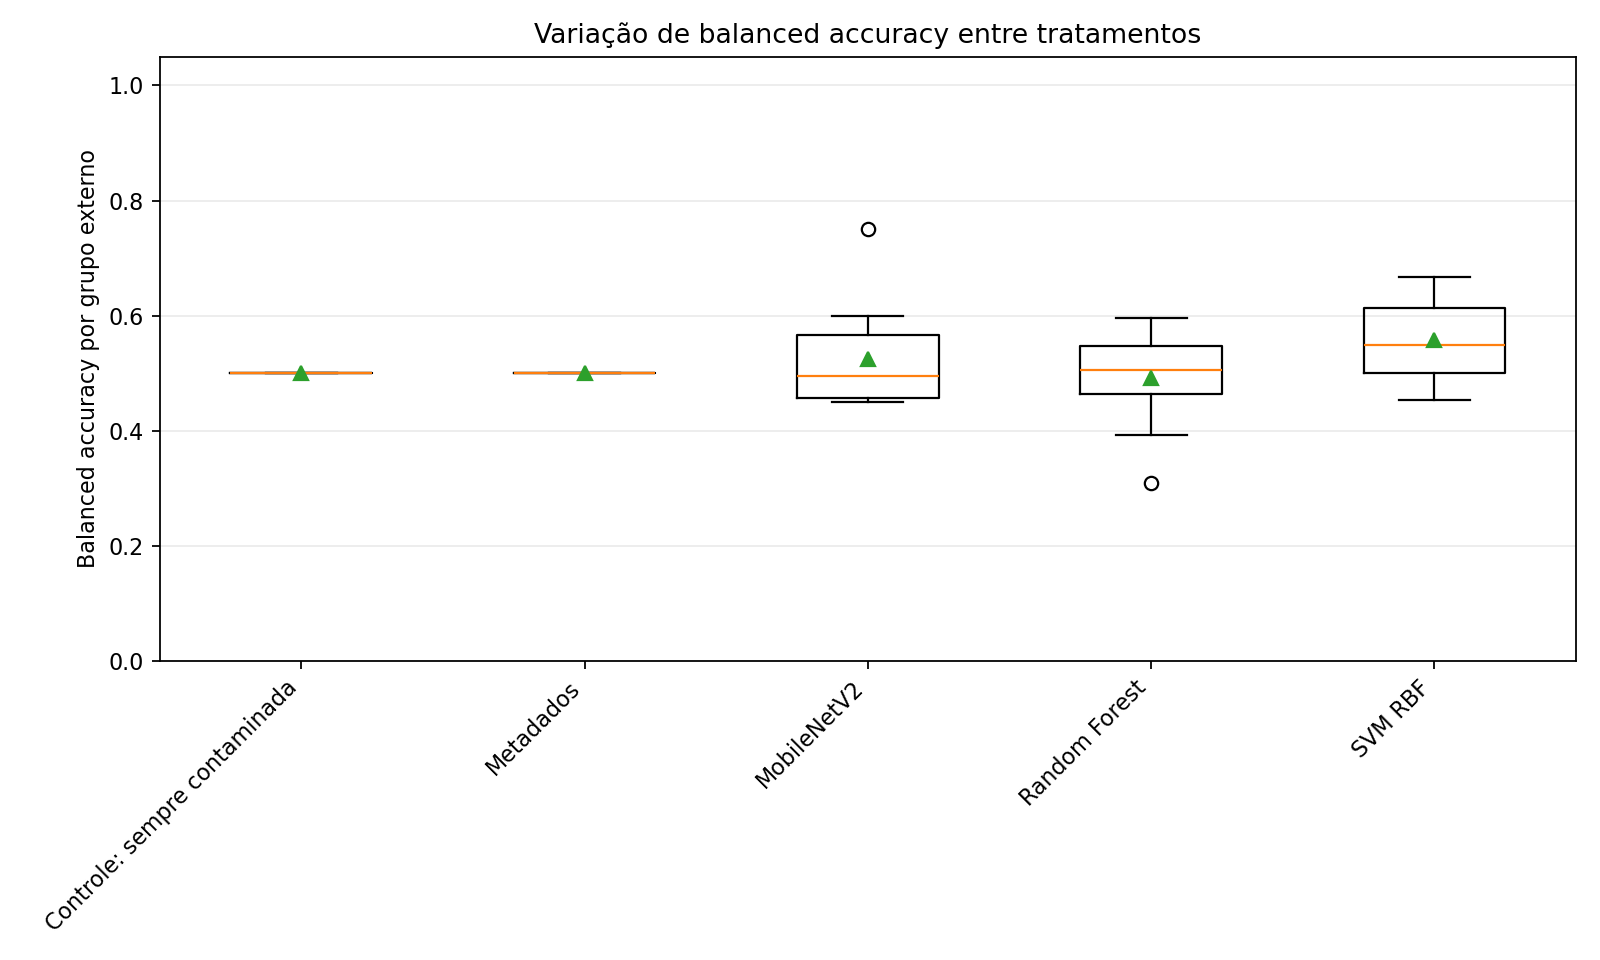
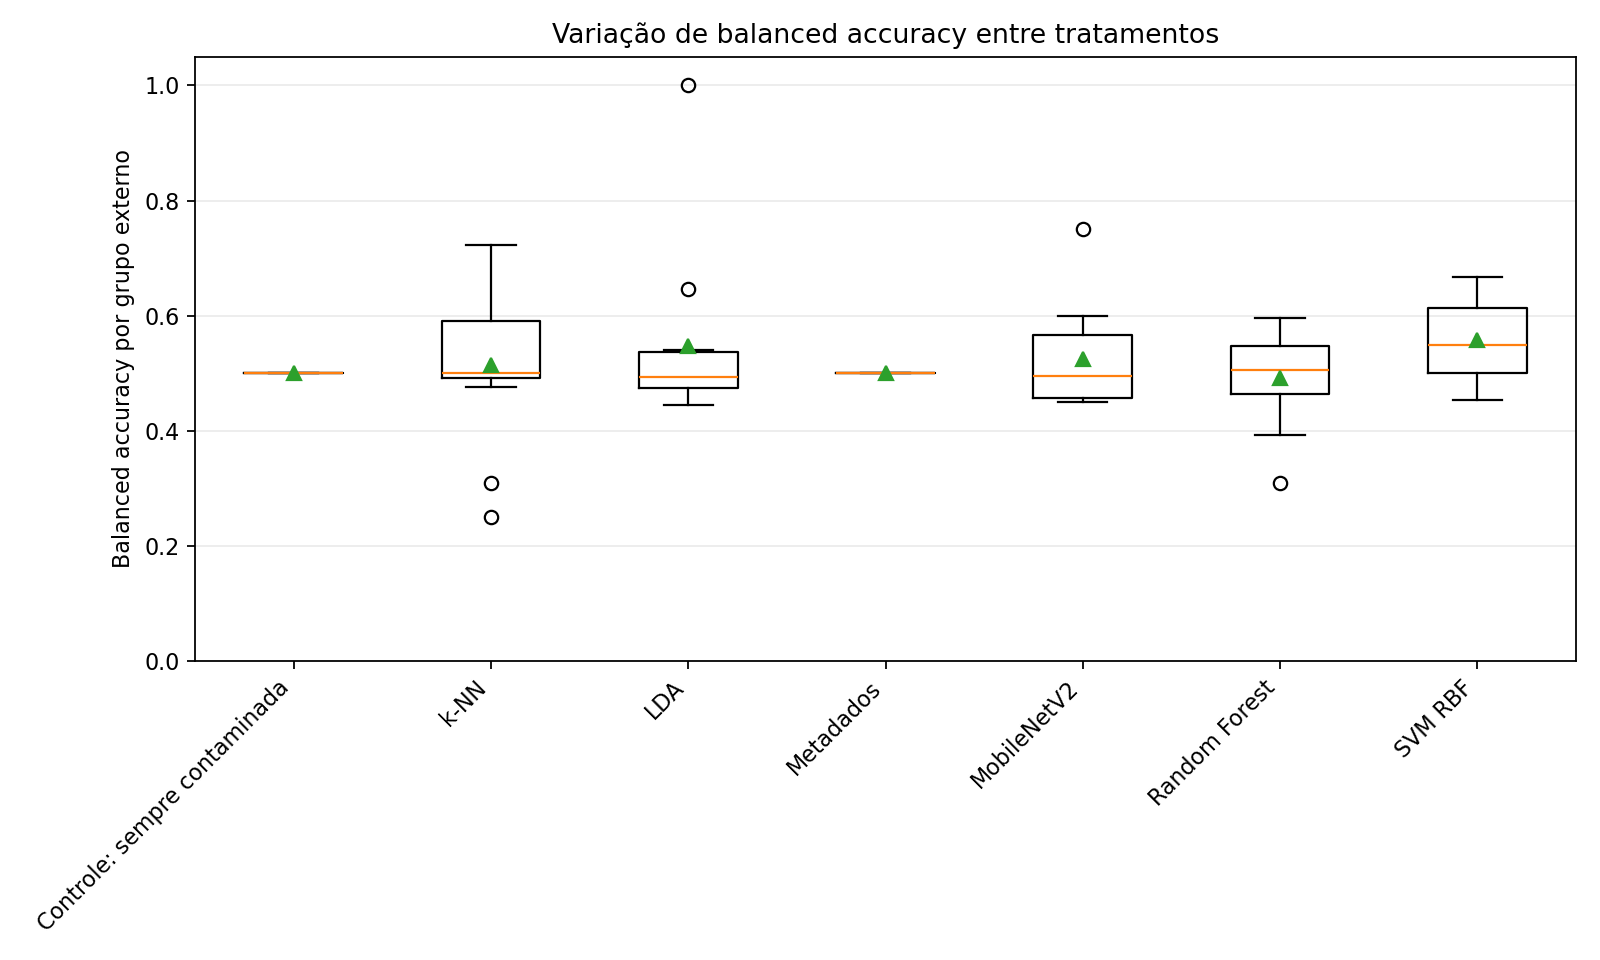
Update triagem and classification reports

diff --git a/docs/relatorio_triagem_preventiva.md b/docs/relatorio_triagem_preventiva.md
@@ -1,0 +1,186 @@
+# Relatorio da triagem preventiva
+
+Gerado em: 2026-06-08T15:25:54
+
+## 1. Objetivo
+
+A triagem preventiva transforma os resultados de classificacao em uma regra
+operacional conservadora. Ela nao substitui a avaliacao manual: o objetivo e
+priorizar alto risco, manter incerteza quando o sinal nao e suficiente e evitar
+tratar baixo risco como liberacao automatica.
+
+## 2. Entradas
+
+- `saidas\tabelas\08_triagem\tabela_integrada_triagem.csv`
+- `saidas\tabelas\08_triagem\scores_candidatos_triagem.csv`
+- `saidas\tabelas\08_triagem\thresholds_crossfit_por_grupo.csv`
+- `saidas\tabelas\08_triagem\predicoes_triagem_crossfit.csv`
+- `saidas\tabelas\08_triagem\metricas_triagem_por_grupo.csv`
+- `saidas\tabelas\08_triagem\resumo_triagem_micro_macro.csv`
+- `saidas\tabelas\08_triagem\score_triagem_recomendado.csv`
+
+## 3. Estrategia oficial
+
+A estrategia oficial foi definida antes da avaliacao externa:
+`consenso_pre_especificado`.
+
+Regras:
+
+- baixo risco: todos os modelos visuais completos abaixo dos seus thresholds
+  baixos no fold;
+- alto risco: pelo menos um modelo acima do seu threshold alto no fold;
+- incerto: demais casos;
+- se algum modelo/fold nao tiver threshold baixo seguro, nao ha baixo risco
+  naquele fold;
+- a comparacao externa de estrategias e exploratoria e nao seleciona a regra.
+
+Invariantes registrados:
+
+- `criterio_definido_antes_avaliacao = true`;
+- `usa_resultado_externo_para_selecao = false`;
+- `baixo_risco_nao_e_liberacao_automatica = true`.
+
+## 4. Thresholds
+
+Threshold baixo: maior threshold da validacao interna com `fn == 0`,
+quantidade minima de nao contaminadas em baixo risco e
+`threshold_baixo < threshold_alto`.
+
+Threshold alto: melhor F1 da classe contaminada na validacao interna,
+desempatando por recall, precisao e menor numero de falsos positivos.
+
+Thresholds sem zona de baixo risco:
+
+| fold | grupo_externo | modelo | conjunto_features | status_threshold_baixo |
+| --- | --- | --- | --- | --- |
+| 1.000 | micro_ondas__controle | knn | principal_normalizado | baixo_risco_suspenso |
+| 1.000 | micro_ondas__controle | lda | principal_normalizado | baixo_risco_suspenso |
+| 1.000 | micro_ondas__controle | mobilenetv2_recortes | nao_aplicavel | baixo_risco_suspenso |
+| 1.000 | micro_ondas__controle | random_forest | principal_normalizado | baixo_risco_suspenso |
+| 1.000 | micro_ondas__controle | svm_rbf | principal_normalizado | baixo_risco_suspenso |
+| 2.000 | micro_ondas__mw | knn | principal_normalizado | baixo_risco_suspenso |
+| 2.000 | micro_ondas__mw | lda | principal_normalizado | baixo_risco_suspenso |
+| 2.000 | micro_ondas__mw | mobilenetv2_recortes | nao_aplicavel | baixo_risco_suspenso |
+| 2.000 | micro_ondas__mw | random_forest | principal_normalizado | baixo_risco_suspenso |
+| 2.000 | micro_ondas__mw | svm_rbf | principal_normalizado | baixo_risco_suspenso |
+| 3.000 | piloto__controle | knn | principal_normalizado | baixo_risco_suspenso |
+| 3.000 | piloto__controle | lda | principal_normalizado | baixo_risco_suspenso |
+| 3.000 | piloto__controle | mobilenetv2_recortes | nao_aplicavel | baixo_risco_suspenso |
+| 3.000 | piloto__controle | random_forest | principal_normalizado | baixo_risco_suspenso |
+| 3.000 | piloto__controle | svm_rbf | principal_normalizado | baixo_risco_suspenso |
+| 4.000 | piloto__fungicida | knn | principal_normalizado | baixo_risco_suspenso |
+| 4.000 | piloto__fungicida | lda | principal_normalizado | baixo_risco_suspenso |
+| 4.000 | piloto__fungicida | mobilenetv2_recortes | nao_aplicavel | baixo_risco_suspenso |
+| 4.000 | piloto__fungicida | random_forest | principal_normalizado | baixo_risco_suspenso |
+| 4.000 | piloto__fungicida | svm_rbf | principal_normalizado | baixo_risco_suspenso |
+
+## 5. Resultado oficial
+
+| estrategia_oficial | total | baixo_risco | alto_risco | incerto | contaminadas_baixo_risco | taxa_contaminada_baixo_risco | recall_alto_risco_contaminada | cobertura_decisao |
+| --- | --- | --- | --- | --- | --- | --- | --- | --- |
+| consenso_pre_especificado | 703 | 0 | 703 | 0 | 0 | 0.000 | 1.000 | 1.000 |
+
+Interpretação: se houver contaminadas em baixo risco, isso nao ajusta a regra
+pos-hoc, mas impede interpretar baixo risco como liberacao automatica.
+
+## 6. Micro e macro
+
+Agregacao micro soma todas as amostras antes das metricas. Agregacao macro
+resume os grupos externos e e mais sensivel a grupos pequenos.
+
+Resumo micro:
+
+| estrategia | tipo_estrategia | total | baixo_risco | alto_risco | incerto | contaminadas_baixo_risco | recall_alto_risco_contaminada | cobertura_decisao |
+| --- | --- | --- | --- | --- | --- | --- | --- | --- |
+| consenso_pre_especificado | consenso_oficial | 703 | 0 | 703 | 0 | 0 | 1.000 | 1.000 |
+| individual_knn_principal_normalizado | individual_descritiva | 703 | 0 | 681 | 22 | 0 | 0.984 | 0.969 |
+| individual_lda_principal_normalizado | individual_descritiva | 703 | 0 | 496 | 207 | 0 | 0.688 | 0.706 |
+| individual_mobilenetv2_recortes_nao_aplicavel | individual_descritiva | 703 | 6 | 631 | 66 | 5 | 0.897 | 0.906 |
+| individual_random_forest_principal_normalizado | individual_descritiva | 703 | 0 | 587 | 116 | 0 | 0.853 | 0.835 |
+| individual_svm_rbf_principal_normalizado | individual_descritiva | 703 | 0 | 703 | 0 | 0 | 1.000 | 1.000 |
+
+Resumo macro:
+
+| estrategia | tipo_estrategia | grupos | taxa_baixo_risco_media | taxa_alto_risco_media | taxa_incerto_media | recall_alto_risco_contaminada_media | cobertura_decisao_media |
+| --- | --- | --- | --- | --- | --- | --- | --- |
+| consenso_pre_especificado | consenso_oficial | 12.000 | 0.000 | 1.000 | 0.000 | 1.000 | 1.000 |
+| individual_knn_principal_normalizado | individual_descritiva | 12.000 | 0.000 | 0.927 | 0.073 | 0.955 | 0.927 |
+| individual_lda_principal_normalizado | individual_descritiva | 12.000 | 0.000 | 0.693 | 0.307 | 0.684 | 0.693 |
+| individual_mobilenetv2_recortes_nao_aplicavel | individual_descritiva | 12.000 | 0.006 | 0.842 | 0.152 | 0.837 | 0.848 |
+| individual_random_forest_principal_normalizado | individual_descritiva | 12.000 | 0.000 | 0.872 | 0.128 | 0.872 | 0.872 |
+| individual_svm_rbf_principal_normalizado | individual_descritiva | 12.000 | 0.000 | 1.000 | 0.000 | 1.000 | 1.000 |
+
+## 7. Casos criticos
+
+Contaminadas em baixo risco:
+
+| estrategia | grupo_externo | nome_arquivo | classe_real | decisao_triagem | tipo_caso_critico |
+| --- | --- | --- | --- | --- | --- |
+| individual_mobilenetv2_recortes_nao_aplicavel | teste_2__t3 | TESTE_2__T3__b1.jpg | contaminada | baixo_risco | contaminada_em_baixo_risco |
+| individual_mobilenetv2_recortes_nao_aplicavel | teste_2__t3 | TESTE_2__T3__e5.jpg | contaminada | baixo_risco | contaminada_em_baixo_risco |
+| individual_mobilenetv2_recortes_nao_aplicavel | teste_2__t3 | TESTE_2__T3__j3.jpg | contaminada | baixo_risco | contaminada_em_baixo_risco |
+| individual_mobilenetv2_recortes_nao_aplicavel | teste_2__t3 | TESTE_2__T3__l4.jpg | contaminada | baixo_risco | contaminada_em_baixo_risco |
+| individual_mobilenetv2_recortes_nao_aplicavel | teste_2__t3 | TESTE_2__T3__l5.jpg | contaminada | baixo_risco | contaminada_em_baixo_risco |
+
+Todos os casos criticos ficam em `saidas\tabelas\08_triagem\casos_criticos_triagem.csv`.
+
+## 8. Figuras
+
+![Distribuicao](figuras/triagem/distribuicao_decisoes_triagem.png)
+
+![Grupos](figuras/triagem/triagem_por_grupo_consenso.png)
+
+## 9. Manifestos
+
+- `saidas\tabelas\08_triagem\manifesto_thresholds_triagem.json`
+- `saidas\tabelas\08_triagem\manifesto_comparacao_triagem.json`
+
+Campos principais:
+
+```json
+{
+  "thresholds": {
+    "protocolo": "triagem_preventiva_crossfit",
+    "origem_tabela_integrada": "saidas\\tabelas\\08_triagem\\tabela_integrada_triagem.csv",
+    "origem_thresholds_internos": "saidas\\tabelas\\08_triagem\\thresholds_internos_modelos_triagem.csv",
+    "threshold_baixo": {
+      "criterio": "maior_threshold_com_fn_0_tn_minimo_e_menor_que_threshold_alto",
+      "min_nao_contaminadas_baixo_risco": 1,
+      "sem_candidato": "nao_existe_zona_de_baixo_risco_modelo_fold"
+    },
+    "threshold_alto": {
+      "criterio": "melhor_f1_desempate_recall_precisao_menor_fp"
+    },
+    "estrategia_oficial": "consenso_pre_especificado",
+    "criterio_definido_antes_avaliacao": true,
+    "usa_resultado_externo_para_selecao": false,
+    "arquivos_saida": {
+      "thresholds": "saidas\\tabelas\\08_triagem\\thresholds_crossfit_por_grupo.csv",
+      "predicoes": "saidas\\tabelas\\08_triagem\\predicoes_triagem_crossfit.csv",
+      "casos_criticos": "saidas\\tabelas\\08_triagem\\casos_criticos_triagem.csv"
+    }
+  },
+  "comparacao": {
+    "protocolo": "triagem_preventiva_crossfit",
+    "origem_predicoes": "saidas\\tabelas\\08_triagem\\predicoes_triagem_crossfit.csv",
+    "estrategia_oficial": "consenso_pre_especificado",
+    "criterio_definido_antes_avaliacao": true,
+    "usa_resultado_externo_para_selecao": false,
+    "comparacao_exploratoria": "saidas\\tabelas\\08_triagem\\comparacao_scores_triagem.csv",
+    "ranking_externo_nao_utilizado_para_selecao": true,
+    "arquivos_saida": {
+      "metricas_grupo": "saidas\\tabelas\\08_triagem\\metricas_triagem_por_grupo.csv",
+      "resumo": "saidas\\tabelas\\08_triagem\\resumo_triagem_micro_macro.csv",
+      "comparacao": "saidas\\tabelas\\08_triagem\\comparacao_scores_triagem.csv",
+      "recomendado": "saidas\\tabelas\\08_triagem\\score_triagem_recomendado.csv"
+    }
+  }
+}
+```
+
+## 10. Conclusao
+
+A triagem preventiva fica cientificamente mais defensavel que a classificacao
+automatica direta porque preserva incerteza e nao escolhe regras por desempenho
+externo. O consenso pre-especificado e a regra oficial; estrategias individuais
+servem apenas como analises secundarias e descritivas.

diff --git a/docs/relatorio_classificacao_cientifica.md b/docs/relatorio_classificacao_cientifica.md
@@ -1,6 +1,6 @@
 # Relatório científico final da classificação
 
-Gerado em: 2026-06-08T13:13:51
+Gerado em: 2026-06-08T15:25:29
 
 ## 1. Objetivo da classificação
 
@@ -48,13 +48,14 @@ apenas como coluna de auditoria.
 ## 5. Modelos avaliados
 
 Foram consolidados modelos de imagem inteira, YOLO/caixas, ResNet18 com
-recortes, Random Forest e SVM com atributos visuais normalizados, MobileNetV2
-com recortes, baseline de metadados e baseline sempre-contaminada. O baseline de
+recortes, Random Forest, SVM RBF, k-NN e LDA com atributos visuais
+normalizados, MobileNetV2 com recortes, baseline de metadados e baseline
+sempre-contaminada. O baseline de
 metadados é tratado como diagnóstico de viés de lote/tratamento, não como
 candidato visual para aplicativo. O baseline sempre-contaminada é um controle,
 não um modelo operacional.
 
-Modelos concluídos na validação externa: Controle: sempre contaminada, Metadados, MobileNetV2, Random Forest, SVM RBF.
+Modelos concluídos na validação externa: Controle: sempre contaminada, k-NN, LDA, Metadados, MobileNetV2, Random Forest, SVM RBF.
 
 ## 6. Parâmetros científicos principais
 
@@ -76,6 +77,52 @@ Modelos concluídos na validação externa: Controle: sempre contaminada, Metada
     "grid_igual_script_23": true,
     "pipeline": "SimpleImputer + StandardScaler + SVC RBF",
     "class_weight": "balanced"
+  },
+  "knn": {
+    "grid_igual_script_23": true,
+    "pipeline": "SimpleImputer + StandardScaler + KNeighborsClassifier",
+    "n_neighbors": [
+      3,
+      5,
+      7,
+      9,
+      11,
+      15,
+      21,
+      31
+    ],
+    "n_neighbors_filtrado_por_menor_treino_cv": true,
+    "weights": [
+      "uniform",
+      "distance"
+    ],
+    "p": [
+      1,
+      2
+    ],
+    "algorithm": "auto"
+  },
+  "lda": {
+    "grid_igual_script_23": true,
+    "pipeline": "SimpleImputer + StandardScaler + LinearDiscriminantAnalysis",
+    "svd": {
+      "tol": [
+        0.0001,
+        0.001,
+        0.01
+      ]
+    },
+    "lsqr": {
+      "shrinkage": [
+        null,
+        "auto",
+        0.01,
+        0.1,
+        0.5,
+        0.9
+      ]
+    },
+    "eigen": false
   },
   "metadados": {
     "logica_base": "script_26_taxas_suavizadas",
@@ -129,6 +176,8 @@ Tabela resumida do split original no cenário `teste_threshold_0_50` e controle:
 | mobilenetv2_recortes | teste_threshold_0_50 | nao_aplicavel | 0.640 | 0.274 | 0.646 | 0.634 | 0.689 |
 | random_forest | teste_threshold_0_50 | principal_normalizado | 0.589 | 0.214 | 0.862 | 0.317 | 0.752 |
 | recortes_resnet18 | teste_threshold_0_50 | nao_aplicavel | 0.574 | 0.172 | 0.831 | 0.317 | 0.735 |
+| knn | teste_threshold_0_50 | principal_normalizado | 0.555 | 0.174 | 0.938 | 0.171 | 0.762 |
+| lda | teste_threshold_0_50 | principal_normalizado | 0.537 | 0.077 | 0.708 | 0.366 | 0.672 |
 | svm_rbf | teste_threshold_0_50 | principal_normalizado | 0.500 | 0.000 | 1.000 | 0.000 | 0.760 |
 | baseline_sempre_contaminada | teste_baseline_sempre_contaminada | nao_aplicavel | 0.500 | 0.000 | 1.000 | 0.000 | 0.760 |
 | baseline_resnet18_imagem_inteira | teste_threshold_0_50 | nao_aplicavel | 0.494 | -0.027 | 0.938 | 0.049 | 0.739 |
@@ -152,6 +201,8 @@ Resumo micro:
 | metadados_taxas_suavizadas | teste_threshold_0_50 | nao_aplicavel | 0.565 | 0.212 | 0.951 | 0.179 | 0.768 | 12 |
 | random_forest | teste_threshold_melhor_f1_validacao | principal_normalizado | 0.523 | 0.061 | 0.853 | 0.193 | 0.720 | 12 |
 | random_forest | teste_threshold_prioridade_recall_validacao | principal_normalizado | 0.523 | 0.061 | 0.853 | 0.193 | 0.720 | 12 |
+| knn | teste_threshold_melhor_f1_validacao | principal_normalizado | 0.519 | 0.108 | 0.984 | 0.055 | 0.760 | 12 |
+| knn | teste_threshold_prioridade_recall_validacao | principal_normalizado | 0.519 | 0.108 | 0.984 | 0.055 | 0.760 | 12 |
 | svm_rbf | teste_threshold_0_50 | principal_normalizado | 0.506 | 0.015 | 0.818 | 0.193 | 0.701 | 12 |
 | baseline_sempre_contaminada | teste_baseline_sempre_contaminada | nao_aplicavel | 0.500 | 0.000 | 1.000 | 0.000 | 0.758 | 12 |
 | metadados_taxas_suavizadas | teste_threshold_melhor_f1_validacao | nao_aplicavel | 0.500 | 0.000 | 1.000 | 0.000 | 0.758 | 12 |
@@ -159,25 +210,23 @@ Resumo micro:
 | svm_rbf | teste_threshold_melhor_f1_validacao | principal_normalizado | 0.500 | 0.000 | 1.000 | 0.000 | 0.758 | 12 |
 | svm_rbf | teste_threshold_prioridade_recall_validacao | principal_normalizado | 0.500 | 0.000 | 1.000 | 0.000 | 0.758 | 12 |
 | mobilenetv2_recortes | teste_threshold_melhor_f1_validacao | nao_aplicavel | 0.500 | -0.001 | 0.897 | 0.102 | 0.726 | 12 |
-| mobilenetv2_recortes | teste_threshold_prioridade_recall_validacao | nao_aplicavel | 0.500 | -0.001 | 0.897 | 0.102 | 0.726 | 12 |
-| random_forest | teste_threshold_0_50 | principal_normalizado | 0.464 | -0.077 | 0.688 | 0.241 | 0.633 | 12 |
 
 Resumo macro:
 
 | modelo | cenario | conjunto_features | balanced_accuracy_media | balanced_accuracy_dp | mcc_media | mcc_dp | recall_contaminada_media | especificidade_nao_contaminada_media | folds |
 | --- | --- | --- | --- | --- | --- | --- | --- | --- | --- |
 | svm_rbf | teste_threshold_0_50 | principal_normalizado | 0.558 | 0.072 | 0.110 | 0.131 | 0.869 | 0.247 | 12 |
+| lda | teste_threshold_0_50 | principal_normalizado | 0.547 | 0.152 | 0.112 | 0.306 | 0.565 | 0.530 | 12 |
 | mobilenetv2_recortes | teste_threshold_0_50 | nao_aplicavel | 0.524 | 0.089 | 0.048 | 0.178 | 0.486 | 0.562 | 12 |
+| knn | teste_threshold_melhor_f1_validacao | principal_normalizado | 0.523 | 0.049 | 0.049 | 0.116 | 0.955 | 0.091 | 12 |
+| knn | teste_threshold_prioridade_recall_validacao | principal_normalizado | 0.523 | 0.049 | 0.049 | 0.116 | 0.955 | 0.091 | 12 |
+| knn | teste_threshold_0_50 | principal_normalizado | 0.514 | 0.138 | -0.001 | 0.235 | 0.661 | 0.366 | 12 |
 | random_forest | teste_threshold_melhor_f1_validacao | principal_normalizado | 0.510 | 0.067 | 0.022 | 0.128 | 0.872 | 0.149 | 12 |
 | random_forest | teste_threshold_prioridade_recall_validacao | principal_normalizado | 0.510 | 0.067 | 0.022 | 0.128 | 0.872 | 0.149 | 12 |
 | baseline_sempre_contaminada | teste_baseline_sempre_contaminada | nao_aplicavel | 0.500 | 0.000 | 0.000 | 0.000 | 1.000 | 0.000 | 12 |
 | metadados_taxas_suavizadas | teste_threshold_0_50 | nao_aplicavel | 0.500 | 0.000 | 0.000 | 0.000 | 0.708 | 0.292 | 12 |
 | metadados_taxas_suavizadas | teste_threshold_melhor_f1_validacao | nao_aplicavel | 0.500 | 0.000 | 0.000 | 0.000 | 1.000 | 0.000 | 12 |
 | metadados_taxas_suavizadas | teste_threshold_prioridade_recall_validacao | nao_aplicavel | 0.500 | 0.000 | 0.000 | 0.000 | 1.000 | 0.000 | 12 |
-| svm_rbf | teste_threshold_melhor_f1_validacao | principal_normalizado | 0.500 | 0.000 | 0.000 | 0.000 | 1.000 | 0.000 | 12 |
-| svm_rbf | teste_threshold_prioridade_recall_validacao | principal_normalizado | 0.500 | 0.000 | 0.000 | 0.000 | 1.000 | 0.000 | 12 |
-| mobilenetv2_recortes | teste_threshold_melhor_f1_validacao | nao_aplicavel | 0.494 | 0.081 | -0.014 | 0.163 | 0.837 | 0.150 | 12 |
-| mobilenetv2_recortes | teste_threshold_prioridade_recall_validacao | nao_aplicavel | 0.494 | 0.081 | -0.014 | 0.163 | 0.837 | 0.150 | 12 |
 
 ## 9. Comparação com baseline sempre-contaminada
 
